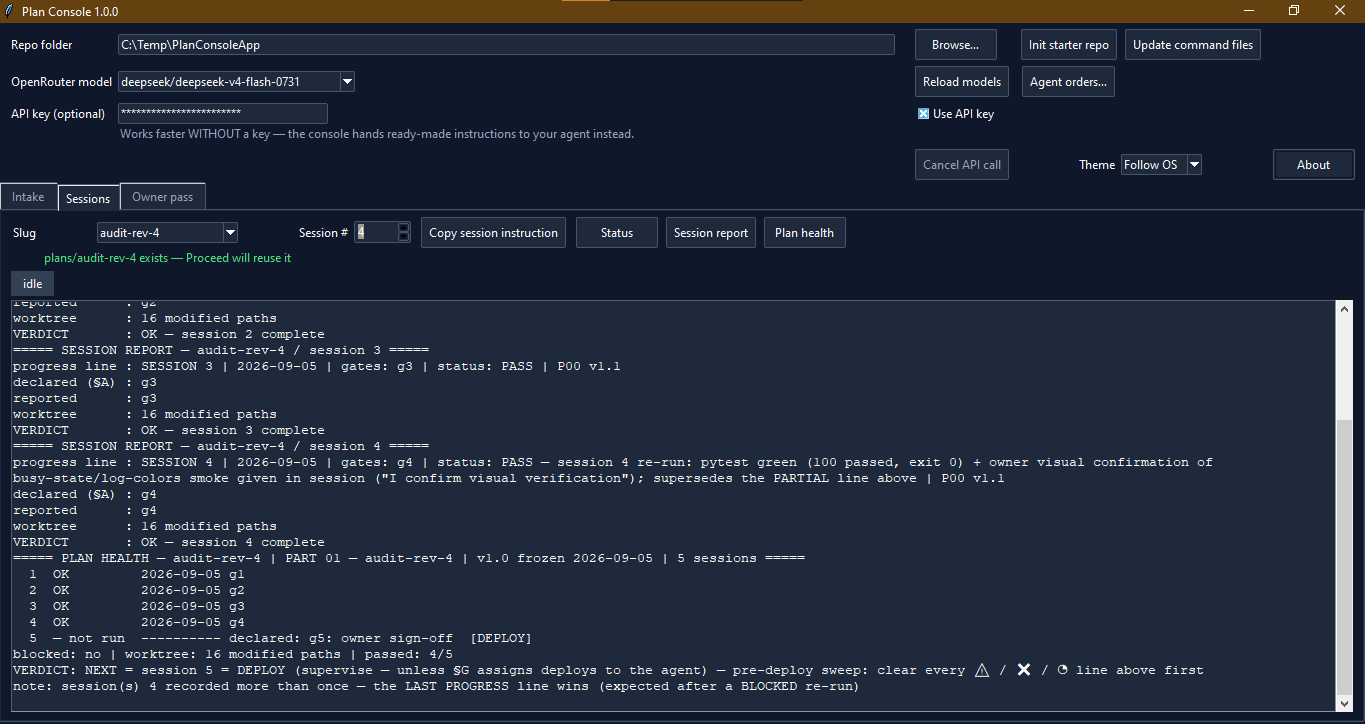
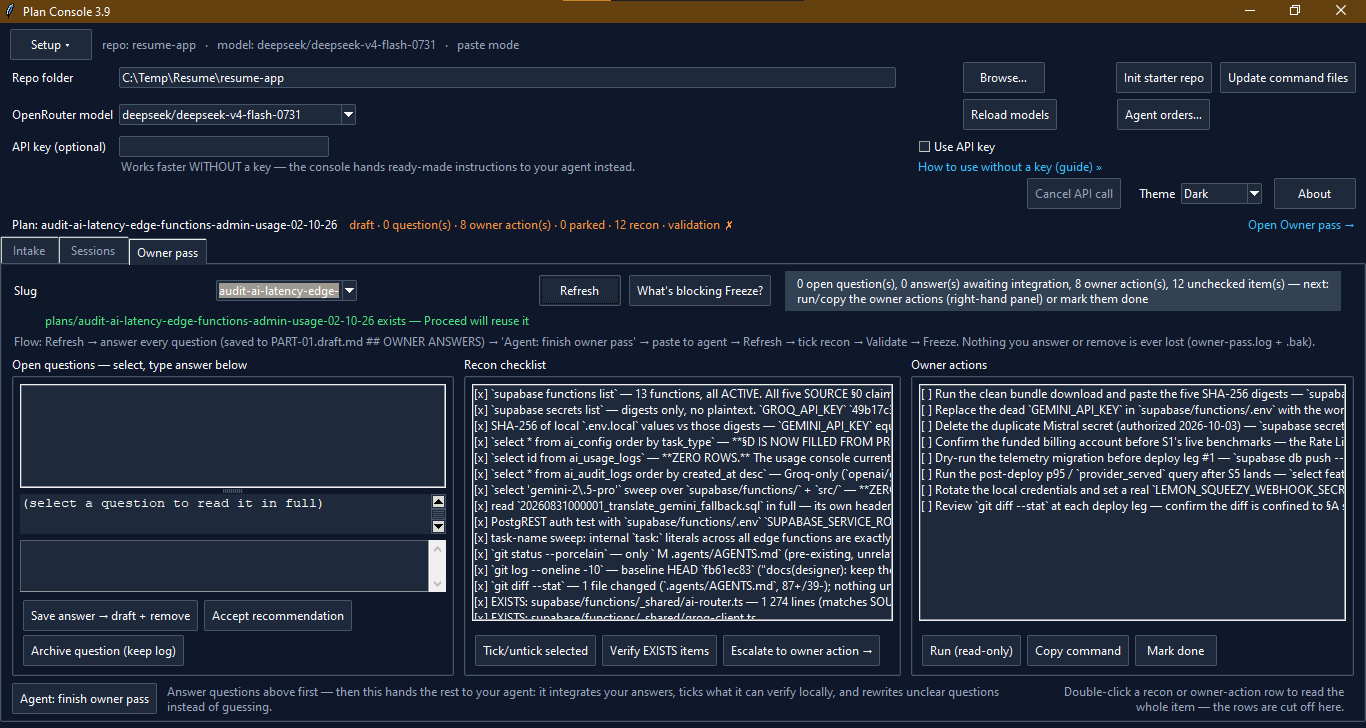
Release 3.10: one version line, and a screenshot that matches the app
Bumps APP_VERSION 3.9 -> 3.10 and, more importantly, ends the project
carrying THREE app versions at once:

    APP_VERSION (title bar, About box)   3.9
    UserGuide.txt / .html                1.1.0  (stale since 1.1.0)
    no-api-key-guide.html                1.0.0  (stale since 1.0.0)

Nothing asserted these agreed, so each drifted on its own schedule and
the app shipped claiming a version its behavior no longer matched. Ten
references are now aligned across the app and all three guides.

The trap worth recording: the guides legitimately say "Python 3.9" for
the minimum interpreter. That is NOT the app version, and a naive sweep
would have rewritten it. Three tests pin this:

- every "Plan Console <v>" claim in the guides equals APP_VERSION
- the "Python 3.9" requirement lines survive the sweep
- APP_VERSION is actually present in the window title

The consistency test was verified by deliberately reverting
UserGuide.txt to 1.1.0 and confirming it fails with the offending file
and value named.

docs/images/screenshot.png is replaced with the current UI. The old one
predated the collapsible Setup panel and the Owner-pass layout fix, so
the README was showing an app that no longer exists.

rel/ re-synced: 49/49 files byte-identical, 205 tests passing from the
release copy standalone.

Changed region(s): [[0.0, 0.0, 1.0, 1.0], [0.9846, 0.3343, 1.0, 0.3646], [0.9846, 0.2735, 1.0, 0.3039]]

diff --git a/UserGuide.html b/UserGuide.html
@@ -3,7 +3,7 @@
 <head>
     <meta charset="UTF-8">
     <meta name="viewport" content="width=device-width, initial-scale=1.0">
-    <title>Plan Console — User Guide (1.1.0)</title>
+    <title>Plan Console — User Guide (3.10)</title>
     <link rel="stylesheet" href="assets/console.css">
     <script src="assets/theme.js" defer></script>
 </head>
@@ -33,7 +33,7 @@
         </div>
         <span class="pill">User Guide</span>
         <h1>Plan Console — User Guide</h1>
-        <p class="text-muted text-lg">Plan Console 1.1.0 — paste-to-plan intake + session lifecycle manager.
+        <p class="text-muted text-lg">Plan Console 3.10 — paste-to-plan intake + session lifecycle manager.
         Everything you need to install, understand and drive the app, from first launch to
         <code>PLAN COMPLETE</code>.</p>
         <p class="text-muted">Copyright © Costel Iordan (costel.iordan@gmail.com). Licensed under the
@@ -198,7 +198,7 @@ python -c "import tkinter"          (should print nothing = OK)</pre>
 
     <h3>3.1 The splash screen</h3>
     <p>At launch a small borderless splash window appears for a moment, showing the app name
-    (<strong>Plan Console</strong>), the version (<strong>1.1.0</strong>), the tagline
+    (<strong>Plan Console</strong>), the version (<strong>3.10</strong>), the tagline
     (<em>"Paste-to-plan intake + session lifecycle manager"</em>), the copyright line, and the
     Apache 2.0 licensing note. It disappears by itself when the main window is ready. If anything
     goes wrong with the splash, the app still starts normally.</p>
@@ -229,7 +229,7 @@ python -c "import tkinter"          (should print nothing = OK)</pre>
     again. Your plans in the repo are never touched by this.</p>
 
     <h3>3.3 Window tour (text layout map)</h3>
-    <p>The window title reads <strong>"Plan Console 3.9"</strong>. The layout, top to bottom:</p>
+    <p>The window title reads <strong>"Plan Console 3.10"</strong>. The layout, top to bottom:</p>
     <pre class="terminal-code">SETUP BAR (collapsible)
   Always visible: a "Setup ▾" toggle button plus a one-line summary
   of the current configuration (repo folder, model, and whether the
@@ -1004,7 +1004,7 @@ LOG (bottom)
     <hr>
 
     <h2 id="license">13. License & credits</h2>
-    <p><strong>Plan Console 1.1.0</strong><br>
+    <p><strong>Plan Console 3.10</strong><br>
     Paste-to-plan intake + session lifecycle manager<br>
     Copyright © Costel Iordan (costel.iordan@gmail.com)</p>
     <p>Licensed under the <strong>Apache License, Version 2.0</strong> — see the
@@ -1046,7 +1046,7 @@ LOG (bottom)
     <hr>
 
     <footer>
-        <p class="text-muted mb-1"><strong>Plan Console</strong> 1.1.0 — offline user guide.</p>
+        <p class="text-muted mb-1"><strong>Plan Console</strong> 3.10 — offline user guide.</p>
         <p class="text-muted mb-1">Copyright © Costel Iordan (costel.iordan@gmail.com)</p>
         <p class="text-muted mb-0">Licensed under the Apache License, Version 2.0. You may obtain a
         copy of the License at

diff --git a/no-api-key-guide.html b/no-api-key-guide.html
@@ -3,7 +3,7 @@
 <head>
     <meta charset="UTF-8">
     <meta name="viewport" content="width=device-width, initial-scale=1.0">
-    <title>Working Without an API Key — Plan Console 1.0.0</title>
+    <title>Working Without an API Key — Plan Console 3.10</title>
     <link rel="stylesheet" href="assets/console.css">
     <script src="assets/theme.js" defer></script>
 </head>
@@ -14,7 +14,7 @@
     <header>
         <span class="pill">No-API-Key Workflow</span>
         <h1>Working Without an API Key</h1>
-        <p class="text-muted text-lg">Plan Console 1.0.0 — the complete copy-paste workflow for people who
+        <p class="text-muted text-lg">Plan Console 3.10 — the complete copy-paste workflow for people who
         do not have (or do not want) an OpenRouter API key. Everything below works fully offline,
         costs nothing, and uses no external services.</p>
     </header>
@@ -383,7 +383,7 @@
     <hr>
 
     <footer>
-        <p class="text-muted mb-1"><strong>Plan Console</strong> 1.0.0 — offline copy-paste guide.</p>
+        <p class="text-muted mb-1"><strong>Plan Console</strong> 3.10 — offline copy-paste guide.</p>
         <p class="text-muted mb-1">Copyright © Costel Iordan (costel.iordan@gmail.com)</p>
         <p class="text-muted mb-0">Licensed under the Apache License, Version 2.0. You may obtain a copy
         of the License at <a href="https://www.apache.org/licenses/LICENSE-2.0">https://www.apache.org/licenses/LICENSE-2.0</a>

diff --git a/test/test_audit_v39.py b/test/test_audit_v39.py
@@ -8,6 +8,7 @@ them, which is why each is pinned explicitly here.
 """
 import importlib.util
 import json
+import re
 from pathlib import Path
 
 HERE = Path(__file__).resolve().parent
@@ -476,6 +477,50 @@ def test_escalation_appended_into_owner_section_is_not_invisible():
     orphans = pc.unaccounted_escalations(ESCALATION_APPENDED)
     assert len(orphans) == 1, orphans
     assert "Coolify app id" in orphans[0]
+# ============================================ 3.10 one version line, everywhere
+def test_version_is_consistent_across_app_and_docs():
+    """One version line, everywhere.
+
+    Regression: the project carried THREE different app versions at once —
+    APP_VERSION showed one value in the title bar and About box, the
+    UserGuide still said 1.1.0 in its title/header/footer, and
+    no-api-key-guide.html still said 1.0.0. Nothing asserted they agreed,
+    so each could drift independently on every edit.
+
+    The trap this must NOT trip over: the guides legitimately say
+    "Python 3.9" (the minimum interpreter), which is NOT the app version.
+    Only "Plan Console <v>" / "PLAN CONSOLE <v>" claims are checked."""
+    here = Path(__file__).resolve().parent.parent
+    claim = re.compile(r"(?:Plan Console|PLAN CONSOLE)\s+(\d+\.\d+)")
+    found = {}
+    for rel in ("UserGuide.txt", "UserGuide.html", "no-api-key-guide.html",
+                "README.md"):
+        for m in claim.finditer((here / rel).read_text(encoding="utf-8")):
+            found.setdefault(rel, set()).add(m.group(1))
+    stale = {f: sorted(v) for f, v in found.items()
+             if v - {pc.APP_VERSION}}
+    assert not stale, (
+        "docs disagree with APP_VERSION %s: %s" % (pc.APP_VERSION, stale))
+
+
+def test_python_requirement_lines_were_not_mistaken_for_the_version():
+    """The guides' "Python 3.9" is the interpreter requirement, not the app
+    version. The sweep above must never rewrite it."""
+    here = Path(__file__).resolve().parent.parent
+    for rel in ("UserGuide.txt", "UserGuide.html"):
+        t = (here / rel).read_text(encoding="utf-8")
+        assert re.search(r"Python 3\.9", t), rel
+
+
+def test_version_bump_is_visible_in_the_ui(owner_window):
+    """APP_VERSION is what the title bar and About box show, so a bump that
+    only edits the docs would leave the running app reporting the old one."""
+    app, root = owner_window
+    _pump(root)
+    assert pc.APP_VERSION in root.title(), (
+        "window title %r does not carry APP_VERSION %r"
+        % (root.title(), pc.APP_VERSION))
+    assert pc.APP_VERSION.count(".") == 1, pc.APP_VERSION
 
 
 def test_escalation_written_above_the_section_is_a_normal_question():

diff --git a/plan-console.py b/plan-console.py
@@ -340,9 +340,9 @@ One-time: point "Repo folder" at your project folder and click
 "Init starter repo" to create PART-00.md, templates/ and commands/.
 Existing repo: "Update command files" refreshes commands/ only.
 
-Public release: version 3.9 (APP_VERSION). The public release started
+Public release: version 3.10 (APP_VERSION). The public release started
 at 1.0.0, continuing the former internal v3.6 lineage; the historical
-v2.x–v3.9 changelog above is kept intact for reference.
+v2.x–v3.10 changelog above is kept intact for reference.
 
 Settings are stored in plan-console.json next to this script.
 """
@@ -402,7 +402,7 @@ APP_NAME = "Plan Console"
 # the About box both read it, so the app reported a version its own
 # behavior no longer matched — which makes any bug report ("does 1.2.0
 # have this?") unanswerable. It now tracks the feature version.
-APP_VERSION = "3.9"               # public release
+APP_VERSION = "3.10"              # public release
 COPYRIGHT_HOLDER = "Costel Iordan"
 COPYRIGHT_EMAIL = "costel.iordan@gmail.com"
 COPYRIGHT_LINE = f"Copyright © {COPYRIGHT_HOLDER} ({COPYRIGHT_EMAIL})"

diff --git a/README.md b/README.md
@@ -9,7 +9,7 @@
 
 It is built for **solo developers and small teams driving AI coding agents**. You stay the owner of the work: answer open questions, tick reconnaissance items, gate the freeze, run copy-paste sessions with standing orders, and track progress and health. The result is that ad-hoc AI-coding chaos becomes a disciplined **plan → owner pass → freeze → session** lifecycle with hard gates, machine-parseable progress records, and a complete audit trail (`HEALTH.md`) — all in a zero-dependency, offline desktop application.
 
-> **What's new in 3.9:** an audit batch whose theme is *nothing that reaches the owner may be invisible*. Escalated open questions can no longer be counted by neither panel and no Freeze gate (both section parsers now share one scanner, and a stranded escalation raises a visible warning gate); an `OWNER-ONLY` recon item is no longer an unresolvable blocker — it is counted separately, marked `⛔ owner-only`, and a new **"Escalate to owner action →"** button moves it where you can actually run it; a `DEFERRED` mention in prose no longer silently un-blocks Freeze; intake steps run in order instead of racing on the same files; the version string now matches the code; and the **Setup panel is collapsible** (`Setup ▸`), reclaiming ~115px of vertical space, with the API progress / Cancel / Theme / About row always visible.
+> **What's new in 3.10:** an audit batch whose theme is *nothing that reaches the owner may be invisible*. Escalated open questions can no longer be counted by neither panel and no Freeze gate (both section parsers now share one scanner, and a stranded escalation raises a visible warning gate); an `OWNER-ONLY` recon item is no longer an unresolvable blocker — it is counted separately, marked `⛔ owner-only`, and a new **"Escalate to owner action →"** button moves it where you can actually run it; a `DEFERRED` mention in prose no longer silently un-blocks Freeze; and intake steps run in order instead of racing on the same files. On the UI side: the three Owner-pass panes now share the width evenly and their button bars re-wrap, so **no button is ever squeezed out of view** (the cause was `tk.Text` defaulting to 80 columns, which had been reserving half the row); the **Setup panel is collapsible** (`Setup ▸`), reclaiming ~115px, with a live summary line and an always-visible progress / Cancel / Theme / About row. The app version now tracks the code across the title bar, the About box and every guide.
 
 > **What's new in 1.2.0:** UI/UX batch 1 — a live **plan strip** under the top bar (stage, gate counts, next session, and a click-through action that jumps to the right tab), **Freeze shows all gates in one ✓/✗ checklist dialog** instead of one error per gate (and now enforces the owner-actions gate the dry run already used), a **"Next session →"** button that prefills the first not-done session/leg and copies its instruction in one click, and read-only tools (Status, Session report, validation report, Freeze check, Copy command) **stay live while an API chain runs**.
 
